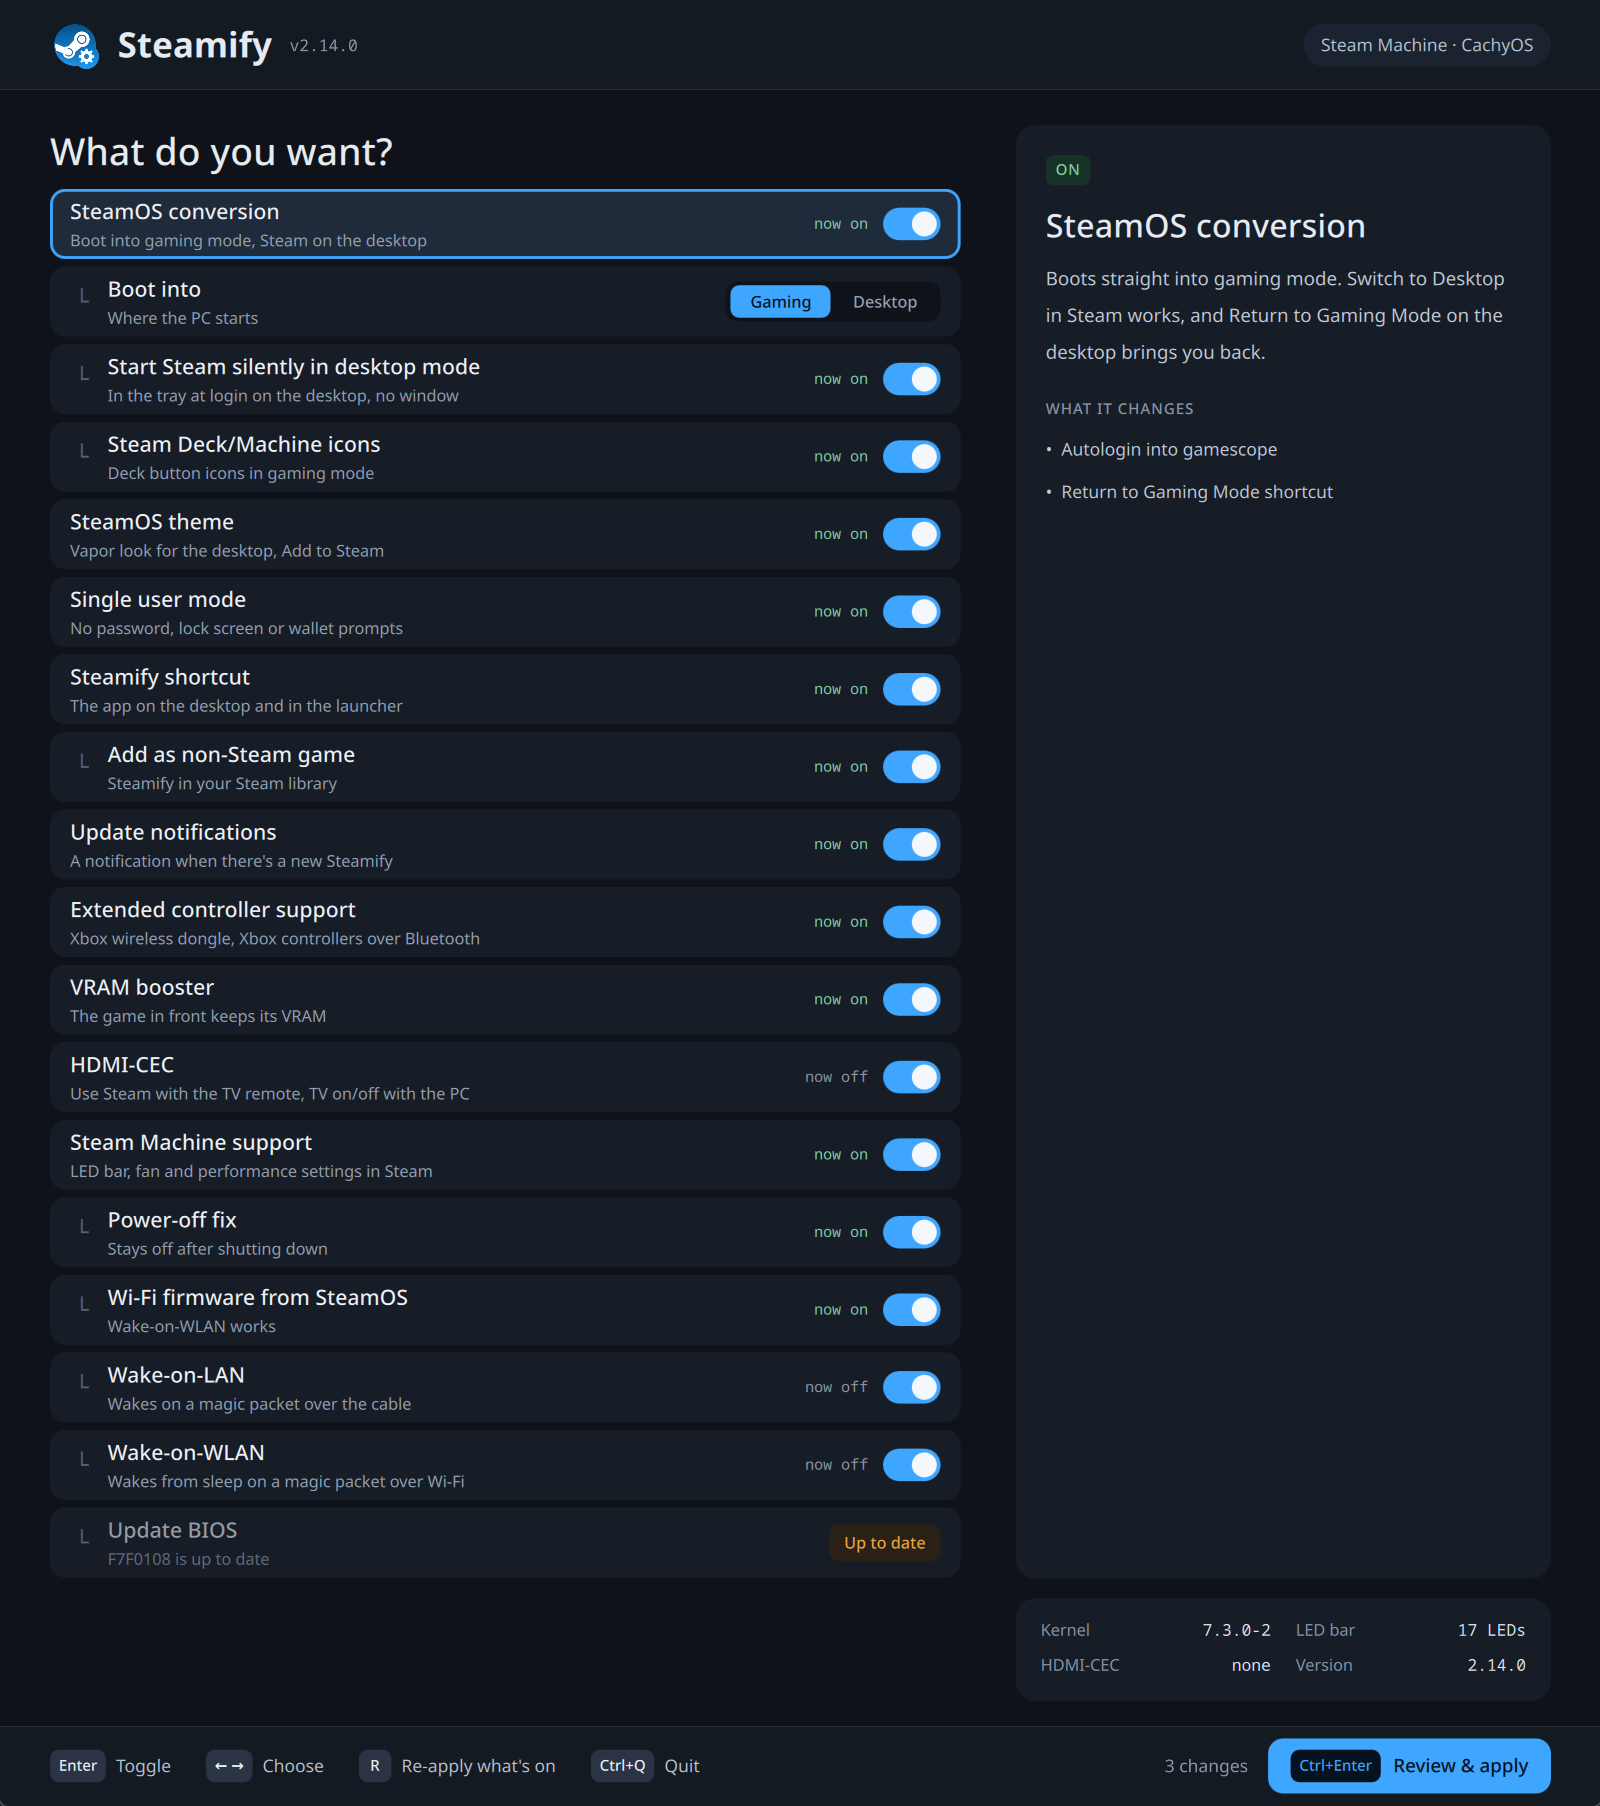
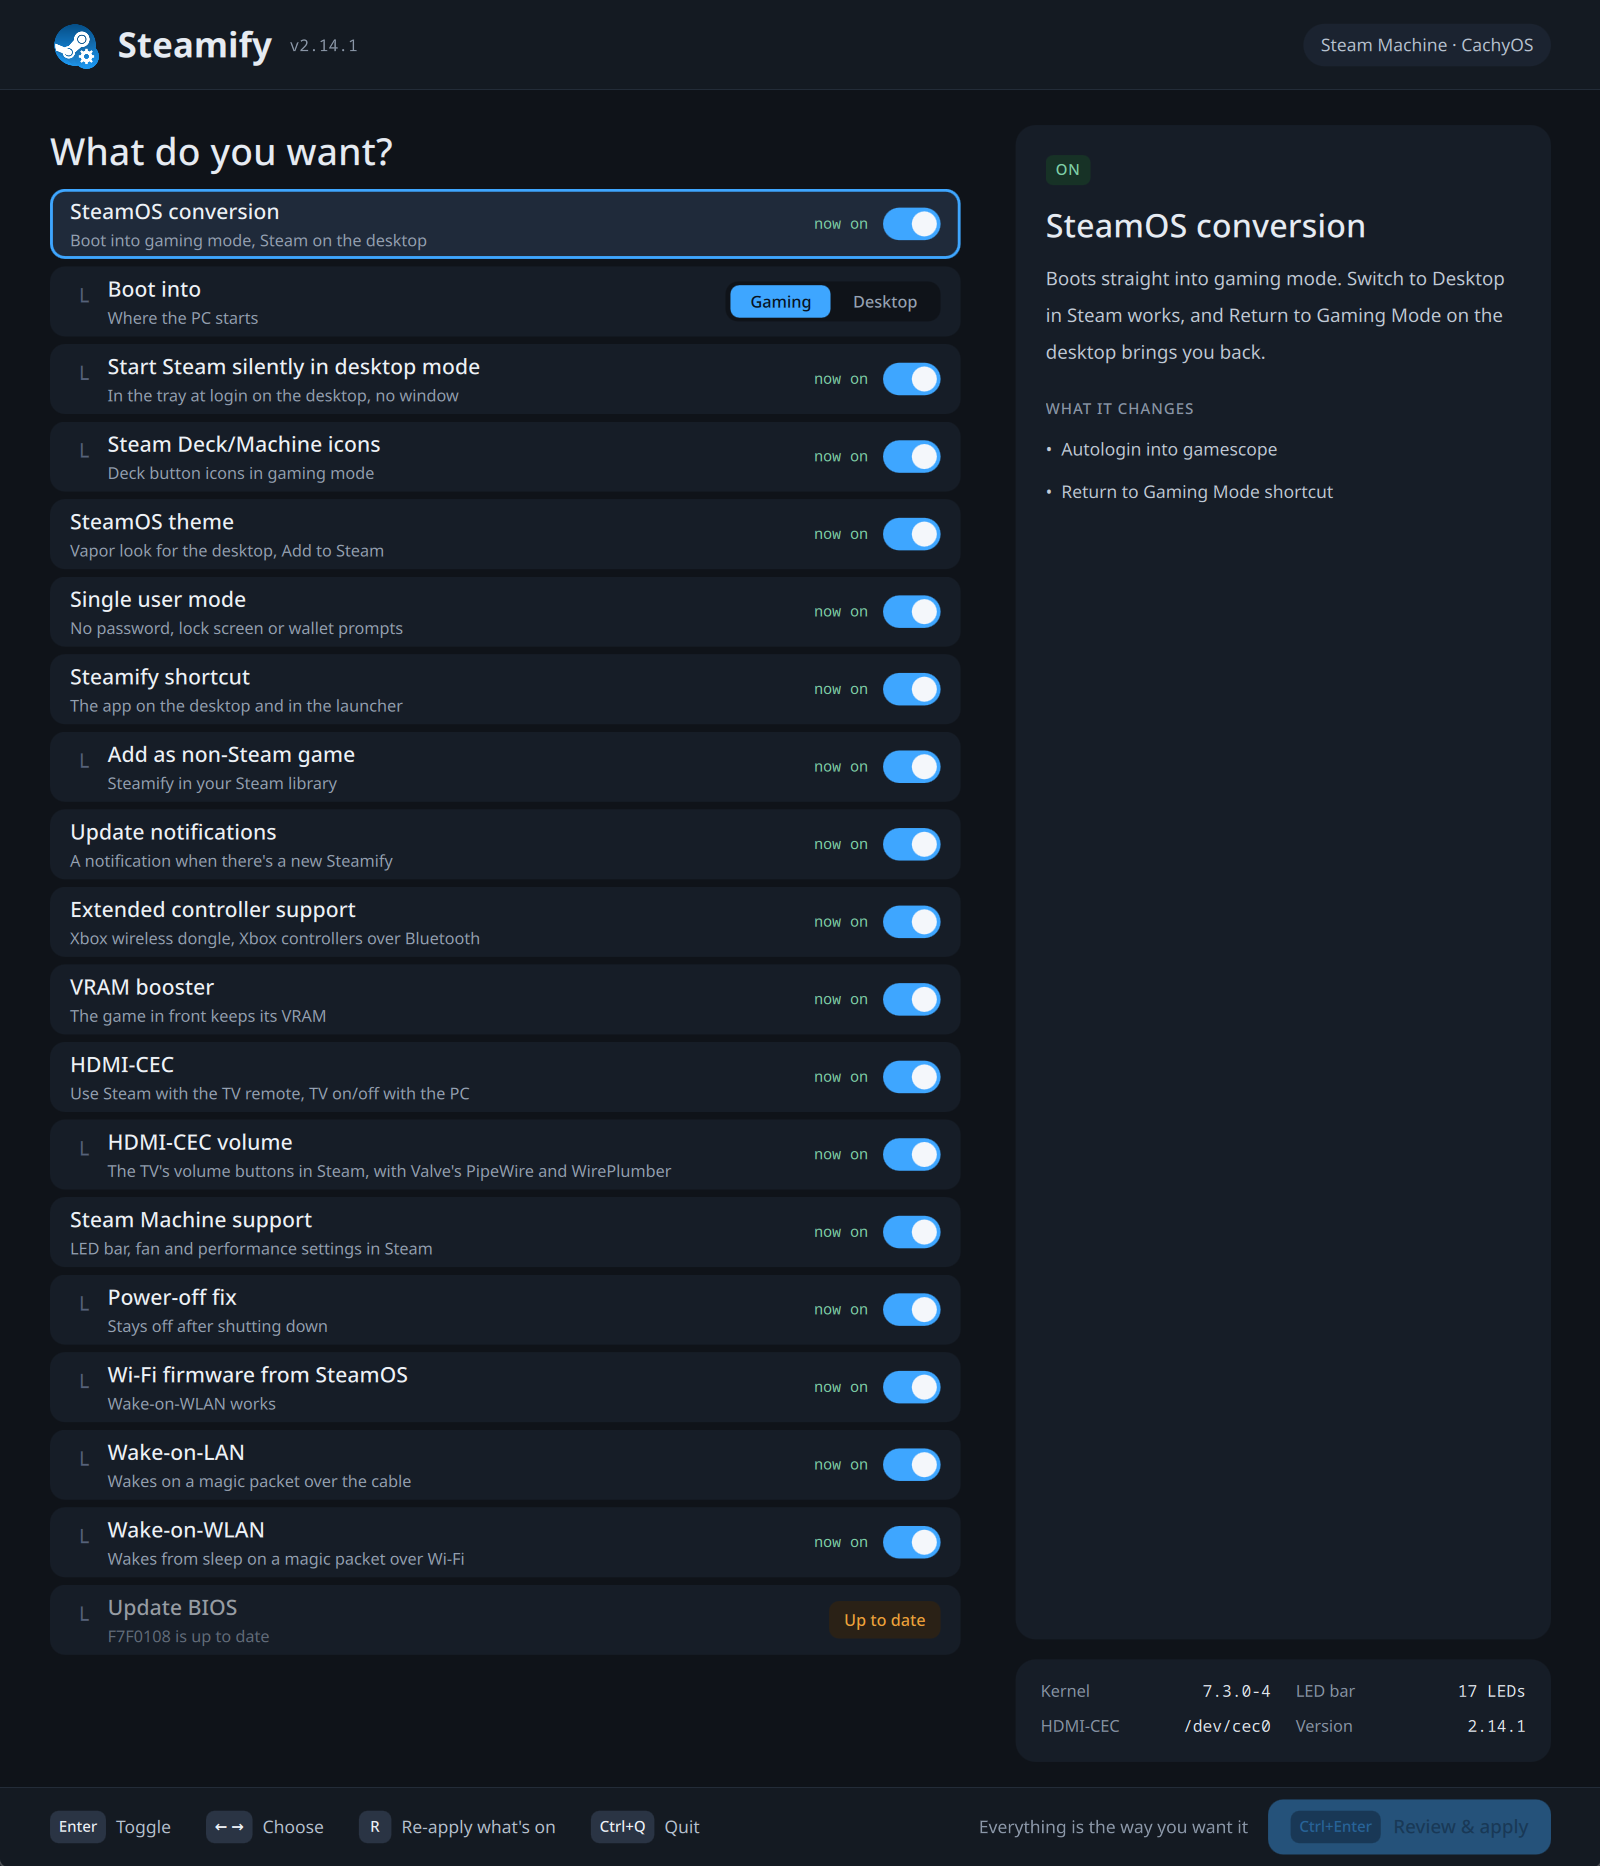
docs: new README screenshot: the 2.14.1 menu with the HDMI-CEC volume row, every option on

diff --git a/CHANGELOG.md b/CHANGELOG.md
@@ -9,7 +9,8 @@ one per merged pull request.
 
 - `c125dc8` **chore: bump VERSION to 2.14.1**
 - `67ee388` **chore: changelog hashes of the 2.14.1 commits so far**
-- **fix: HDMI-CEC volume no longer restarts PipeWire, WirePlumber and Sunshine itself; it asks for a restart of the PC, like the login changes (the app's "Restart now" too). A live restart took Moonlight's host down (Sunshine's unit allows five starts per 500 s, and a few on/off rounds hit that), and not every PC has Sunshine or another program that depends on PipeWire staying up. The WirePlumber rule moved to `~/.config/wireplumber` (`/etc/wireplumber` is a dangling symlink once Valve's packages are in) (#107)**
+- **docs: new README screenshot: the 2.14.1 menu on a Steam Machine with every option really on (the HDMI-CEC volume row under HDMI-CEC), no badges**
+- `3755d22` **fix: HDMI-CEC volume no longer restarts PipeWire, WirePlumber and Sunshine itself; it asks for a restart of the PC, like the login changes (the app's "Restart now" too). A live restart took Moonlight's host down (Sunshine's unit allows five starts per 500 s, and a few on/off rounds hit that), and not every PC has Sunshine or another program that depends on PipeWire staying up. The WirePlumber rule moved to `~/.config/wireplumber` (`/etc/wireplumber` is a dangling symlink once Valve's packages are in) (#107)**
 - `928c745` **feat: new default sub-option of HDMI-CEC on a Steam Machine, "HDMI-CEC volume" (`cecaudio`): Steam's Audio settings get SteamOS's TV Volume buttons (minus, plus, mute) and the HDMI CEC toggle instead of a slider that doesn't reach the TV (#107). They need Valve's builds of PipeWire and WirePlumber, which carry a patch CachyOS's don't have, so the option replaces CachyOS's (64-bit and 32-bit) by Valve's (checksums verified) in a local pacman repository that is listed before CachyOS's, so `pacman -Syu` keeps them, and that a weekly timer refreshes from Valve's newest `jupiter-X.Y` and `multilib-X.Y`. Audio may behave differently, and Valve's PipeWire is usually a little behind CachyOS's. Off puts CachyOS's packages back and removes what Valve's brought along (`steamdeck-dsp`, `noisetorch`), the repository and its `pacman.conf` section. The new files: `lib/cec-audio.sh`, `patches/steamify-valve-audio.sh`, `services/steamify-valve-audio.service` and `.timer`**
 
 ## 2.14.0 - 2026-10-23
